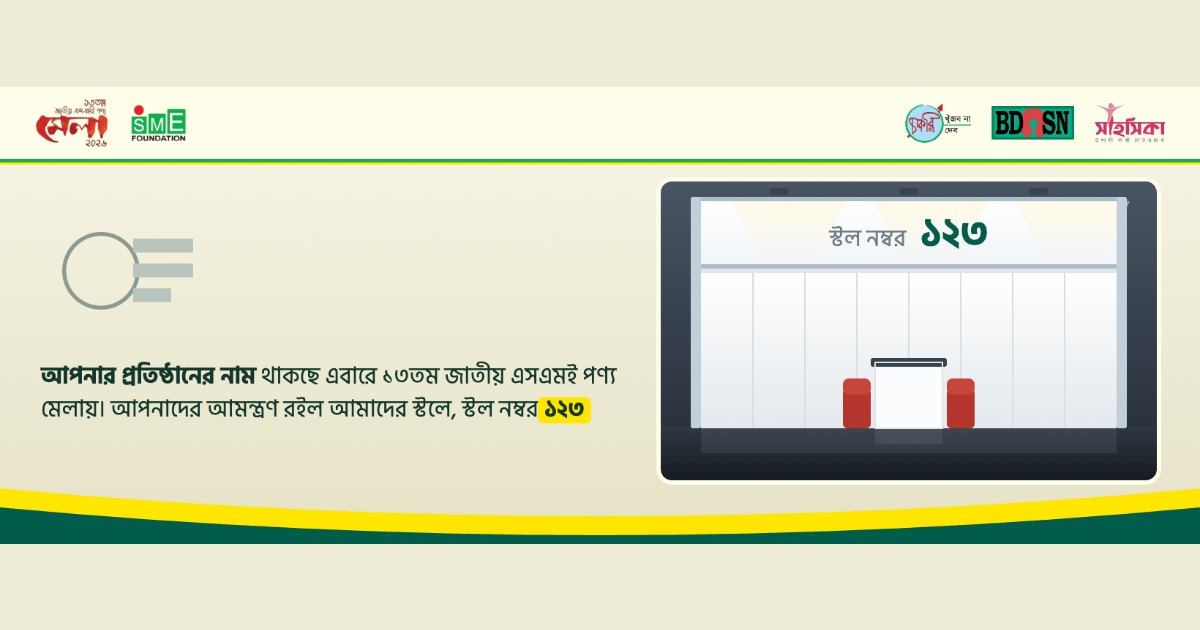
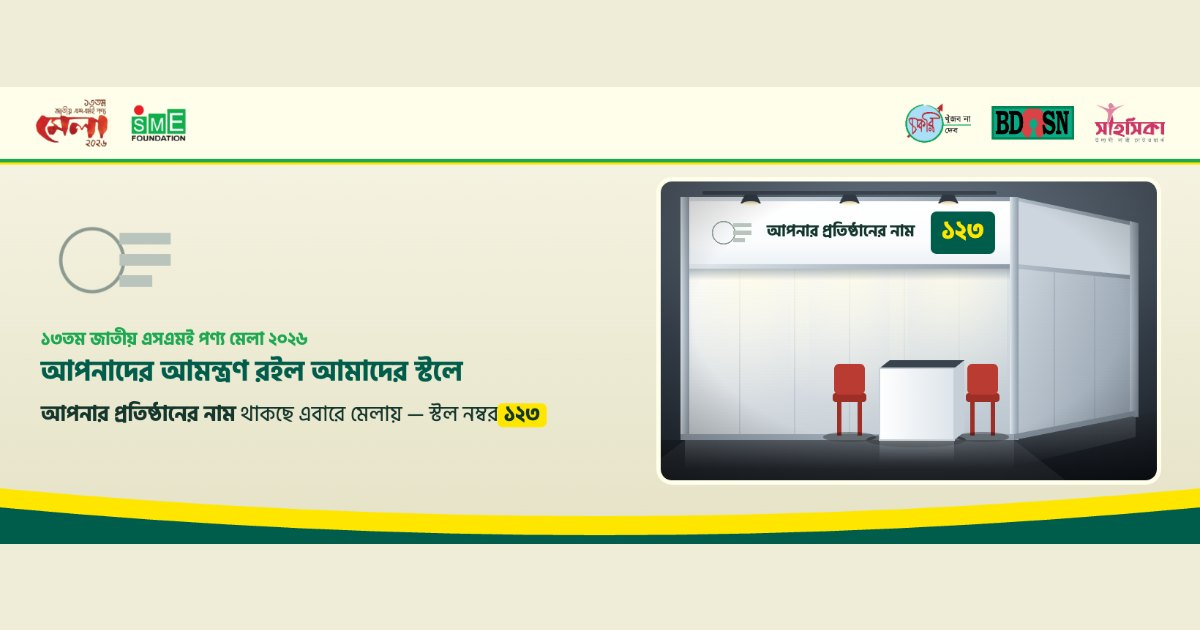
Brand the stall and rearrange the invitation
The standard stall is redrawn with real depth, lighting and reflections, and its facia
now carries the entrepreneur's logo, business name and stall number; the strip over an
uploaded photo carries the same. The left column now reads fair, invitation, who and
where, then their own message.

Changed region(s): [[0.555, 0.3016, 0.9558, 0.754], [0.0308, 0.3619, 0.5242, 0.6937]]

diff --git a/app/fbcover/page.js b/app/fbcover/page.js
@@ -12,18 +12,22 @@ const FONT = hind.style.fontFamily;
 // Facebook cover canvas, in its own pixel space (2x the 820x312 it is shown at).
 const W = 1640, H = 624;
 const BAND = 98;                                      // cream partner-logo strip at the top
-const SLOT = { x: 56, w: 400, h: 164 };               // the entrepreneur's own logo
+const SLOT = { x: 56, w: 380, h: 140 };               // the entrepreneur's own logo
 const STALL = { x: 900, y: 126, w: 684, h: 414 };     // the stall photo
-const FACIA = 92;                                     // signboard strip across the stall photo
-const TEXT = { x: 56, w: 800, size: 32, line: 45 };   // invitation
-const NOTE = { size: 27, line: 36 };                  // the entrepreneur's own message
-const FAIR = '১৩তম জাতীয় এসএমই পণ্য মেলায়';
+const FACIA = 92;                                     // signboard strip laid over an uploaded photo
+const TEXT = { x: 56, w: 800 };
+const EYE = { size: 24, line: 32 };                   // which fair this is
+const HEAD = { size: 38, line: 50 };                  // the invitation itself
+const BODY = { size: 29, line: 39 };                  // who, and where to find them
+const NOTE = { size: 26, line: 34 };                  // the entrepreneur's own message
+const FAIR = '১৩তম জাতীয় এসএমই পণ্য মেলা ২০২৬';
+const WELCOME = 'আপনাদের আমন্ত্রণ রইল আমাদের স্টলে';
 const BOTTOM = 540;                                   // content must stay above the bottom wave
 
 const CREAM = '#fffeeb', DARK = '#005c4b', GREEN = '#1ea851', YELLOW = '#ffe600', INK = '#14362c';
 
-// Where the stall number lands on the standard stall, in that drawing's own 684x414 frame.
-const BOOTH_FACIA = { x: 56, y: 30, w: 572, h: 86 };
+// The blank signboard on the standard stall, in that drawing's own 684x414 frame.
+const BOOTH_FACIA = { x: 50, y: 36, w: 422, h: 74 };
 
 const FIXED = {
   booth: '/frames/booth.svg',
@@ -70,34 +74,48 @@ function placeholder(ctx, box, label) {
   ctx.restore();
 }
 
-// "স্টল নম্বর 123" centred on a facia, shrinking to fit if the number is long.
-function stallNumber(ctx, box, number, labelColour, numberColour) {
-  const label = 'স্টল নম্বর';
-  let ls = 32, ns = 54;
-  const measure = () => {
-    ctx.font = font(400, ls);
-    const lw = ctx.measureText(label).width;
-    ctx.font = font(700, ns);
-    return [lw, ctx.measureText(number).width];
-  };
-  let [lw, nw] = measure();
-  const room = box.w - 40;
-  if (lw + 20 + nw > room) {
-    const k = room / (lw + 20 + nw);
-    ls = Math.round(ls * k);
-    ns = Math.round(ns * k);
-    [lw, nw] = measure();
+// Brands a stall's signboard: logo and name to the left, stall number on a plate at the
+// right. `dark` is for the strip laid over someone's own photo, light for the drawn stall.
+function facia(ctx, box, { logo, name, number }, dark) {
+  const mid = box.y + box.h / 2;
+  let right = box.x + box.w - 12;
+
+  if (number) {
+    ctx.font = font(700, 34);
+    const plateW = Math.max(78, ctx.measureText(number).width + 30);
+    const plateH = Math.min(box.h - 14, 58);
+    const plateX = right - plateW, plateY = mid - plateH / 2;
+    ctx.fillStyle = dark ? YELLOW : DARK;
+    roundRect(ctx, plateX, plateY, plateW, plateH, 8);
+    ctx.fill();
+    ctx.fillStyle = dark ? INK : YELLOW;
+    ctx.textAlign = 'center';
+    ctx.textBaseline = 'middle';
+    ctx.fillText(number, plateX + plateW / 2, mid + 2);
+    right = plateX - 16;
   }
-  const x = box.x + (box.w - lw - 20 - nw) / 2;
-  const base = box.y + box.h / 2 + ns * 0.34;
-  ctx.textBaseline = 'alphabetic';
+
+  let x = box.x + 14;
+  if (logo) {
+    const h = Math.min(box.h - 18, 50);
+    const w = logo.width * h / logo.height;
+    const k = Math.min(1, (name ? (right - x) * 0.4 : right - x) / w);
+    ctx.drawImage(logo, x, mid - h * k / 2, w * k, h * k);
+    x += w * k + 14;
+  }
+  if (name) {
+    let size = 30;
+    ctx.font = font(700, size);
+    const width = ctx.measureText(name).width;
+    if (width > right - x) size = Math.max(13, Math.floor(size * (right - x) / width));
+    ctx.font = font(700, size);
+    ctx.fillStyle = dark ? CREAM : INK;
+    ctx.textAlign = 'left';
+    ctx.textBaseline = 'middle';
+    ctx.fillText(name, x, mid + 1);
+  }
   ctx.textAlign = 'left';
-  ctx.font = font(400, ls);
-  ctx.fillStyle = labelColour;
-  ctx.fillText(label, x, base);
-  ctx.font = font(700, ns);
-  ctx.fillStyle = numberColour;
-  ctx.fillText(number, x + lw + 20, base);
+  ctx.textBaseline = 'alphabetic';
 }
 
 // Lays out a sentence made of styled runs, wrapping on spaces.
@@ -194,35 +212,48 @@ export default function Page() {
     let x = 1592 - widths.reduce((a, b) => a + b, 0) - 28 * (right.length - 1);
     right.forEach(([img, h], i) => { byHeight(ctx, img, x, mid, h); x += widths[i] + 28; });
 
-    // left column: logo, invitation and optional message, centred together so the
-    // block stays balanced however much text there is
-    const runs = [
-      { text: business.trim() || 'আপনার প্রতিষ্ঠানের নাম', bold: true },
-      { text: `থাকছে এবারে ${FAIR}।` },
-      { text: stallNo.trim() ? 'আপনাদের আমন্ত্রণ রইল আমাদের স্টলে, স্টল নম্বর' : 'আপনাদের আমন্ত্রণ রইল আমাদের স্টলে।' },
+    // left column, read top to bottom: whose banner this is, which fair, the invitation,
+    // where to find them, then their own words. Centred as one block so it stays
+    // balanced however much text there is.
+    const brand = { logo: s.logo, name: business.trim(), number: stallNo.trim() };
+    const head = layout(ctx, [{ text: WELCOME, bold: true }], TEXT.w, HEAD.size);
+    const body = [
+      { text: brand.name || 'আপনার প্রতিষ্ঠানের নাম', bold: true },
+      { text: brand.number ? 'থাকছে এবারে মেলায় — স্টল নম্বর' : 'থাকছে এবারে মেলায়।' },
     ];
-    if (stallNo.trim()) runs.push({ text: stallNo.trim(), bold: true, mark: true });
-    const lines = layout(ctx, runs, TEXT.w, TEXT.size);
+    if (brand.number) body.push({ text: brand.number, bold: true, mark: true });
+    const lines = layout(ctx, body, TEXT.w, BODY.size);
     const note = message.trim() ? layout(ctx, [{ text: message.trim() }], TEXT.w - 24, NOTE.size) : null;
-    const blockH = SLOT.h + 46 + lines.length * TEXT.line + (note ? 30 + note.length * NOTE.line : 0);
-    const top = Math.max(BAND + 22, (BAND + BOTTOM - blockH) / 2);
+    const blockH = SLOT.h + 26 + EYE.line + 6 + head.length * HEAD.line + 12
+      + lines.length * BODY.line + (note ? 22 + note.length * NOTE.line : 0);
+    let y = Math.max(BAND + 16, (BAND + BOTTOM - blockH) / 2);
 
     if (s.logo) {
       const k = Math.min(SLOT.w / s.logo.width, SLOT.h / s.logo.height);
-      const w = s.logo.width * k, h = s.logo.height * k;
-      ctx.drawImage(s.logo, SLOT.x, top + (SLOT.h - h) / 2, w, h);
+      ctx.drawImage(s.logo, SLOT.x, y + (SLOT.h - s.logo.height * k) / 2, s.logo.width * k, s.logo.height * k);
     } else {
-      placeholder(ctx, { ...SLOT, y: top }, 'আপনার লোগো');
+      placeholder(ctx, { ...SLOT, y }, 'আপনার লোগো');
     }
+    y += SLOT.h + 26;
 
-    const textTop = top + SLOT.h + 46;
-    drawLines(ctx, lines, TEXT.x, textTop + TEXT.size * 0.8, TEXT.size, TEXT.line, INK);
+    ctx.textAlign = 'left';
+    ctx.textBaseline = 'alphabetic';
+    ctx.font = font(700, EYE.size);
+    ctx.fillStyle = GREEN;
+    ctx.fillText(FAIR, TEXT.x, y + EYE.size * 0.8);
+    y += EYE.line + 6;
+
+    drawLines(ctx, head, TEXT.x, y + HEAD.size * 0.8, HEAD.size, HEAD.line, DARK);
+    y += head.length * HEAD.line + 12;
+
+    drawLines(ctx, lines, TEXT.x, y + BODY.size * 0.8, BODY.size, BODY.line, INK);
+    y += lines.length * BODY.line;
 
     if (note) {
-      const noteTop = textTop + lines.length * TEXT.line + 30;
+      y += 22;
       ctx.fillStyle = GREEN;
-      ctx.fillRect(TEXT.x, noteTop, 5, note.length * NOTE.line - 8);
-      drawLines(ctx, note, TEXT.x + 24, noteTop + NOTE.size * 0.8, NOTE.size, NOTE.line, '#3c5a4f');
+      ctx.fillRect(TEXT.x, y, 5, note.length * NOTE.line - 8);
+      drawLines(ctx, note, TEXT.x + 24, y + NOTE.size * 0.8, NOTE.size, NOTE.line, '#3c5a4f');
     }
 
     // the stall: the entrepreneur's own photo if they have one, otherwise the standard
@@ -243,19 +274,20 @@ export default function Page() {
       const ox = s.stall ? s.ox : 0, oy = s.stall ? s.oy : 0;
       ctx.drawImage(shot, STALL.x + (STALL.w - w) / 2 + ox, STALL.y + (STALL.h - h) / 2 + oy, w, h);
     }
-    const number = stallNo.trim();
-    if (number && s.stall) {
+    if (s.stall) {
       // their own photo: a signboard strip of ours across the top
-      ctx.fillStyle = DARK;
-      ctx.fillRect(STALL.x, STALL.y, STALL.w, FACIA);
-      ctx.fillStyle = YELLOW;
-      ctx.fillRect(STALL.x, STALL.y + FACIA - 5, STALL.w, 5);
-      stallNumber(ctx, { x: STALL.x, y: STALL.y, w: STALL.w, h: FACIA }, number, CREAM, YELLOW);
-    } else if (number) {
-      // the standard stall: printed on its own blank facia
-      stallNumber(ctx, {
+      if (brand.name || brand.number) {
+        ctx.fillStyle = DARK;
+        ctx.fillRect(STALL.x, STALL.y, STALL.w, FACIA);
+        ctx.fillStyle = YELLOW;
+        ctx.fillRect(STALL.x, STALL.y + FACIA - 5, STALL.w, 5);
+        facia(ctx, { x: STALL.x, y: STALL.y, w: STALL.w, h: FACIA - 5 }, brand, true);
+      }
+    } else {
+      // the standard stall: branded on its own blank signboard
+      facia(ctx, {
         x: STALL.x + BOOTH_FACIA.x, y: STALL.y + BOOTH_FACIA.y, w: BOOTH_FACIA.w, h: BOOTH_FACIA.h,
-      }, number, '#6d7d89', DARK);
+      }, brand, false);
     }
     ctx.restore();
     roundRect(ctx, STALL.x, STALL.y, STALL.w, STALL.h, 18);
